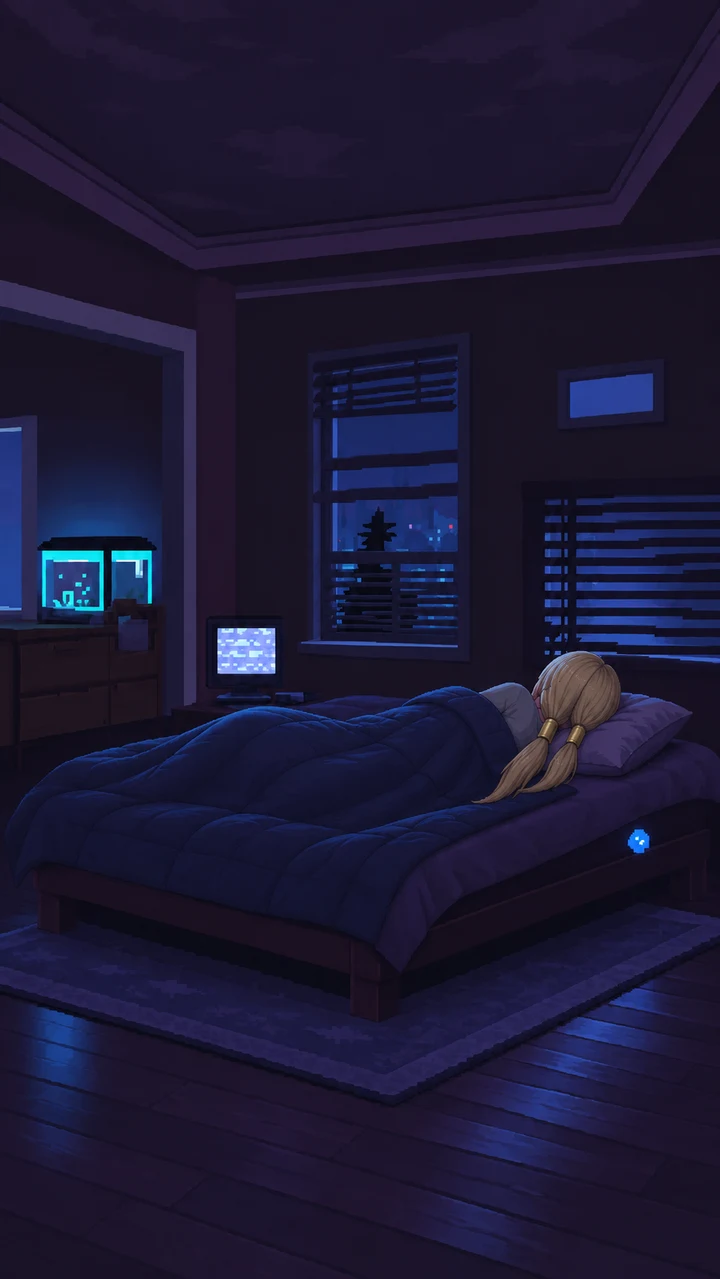
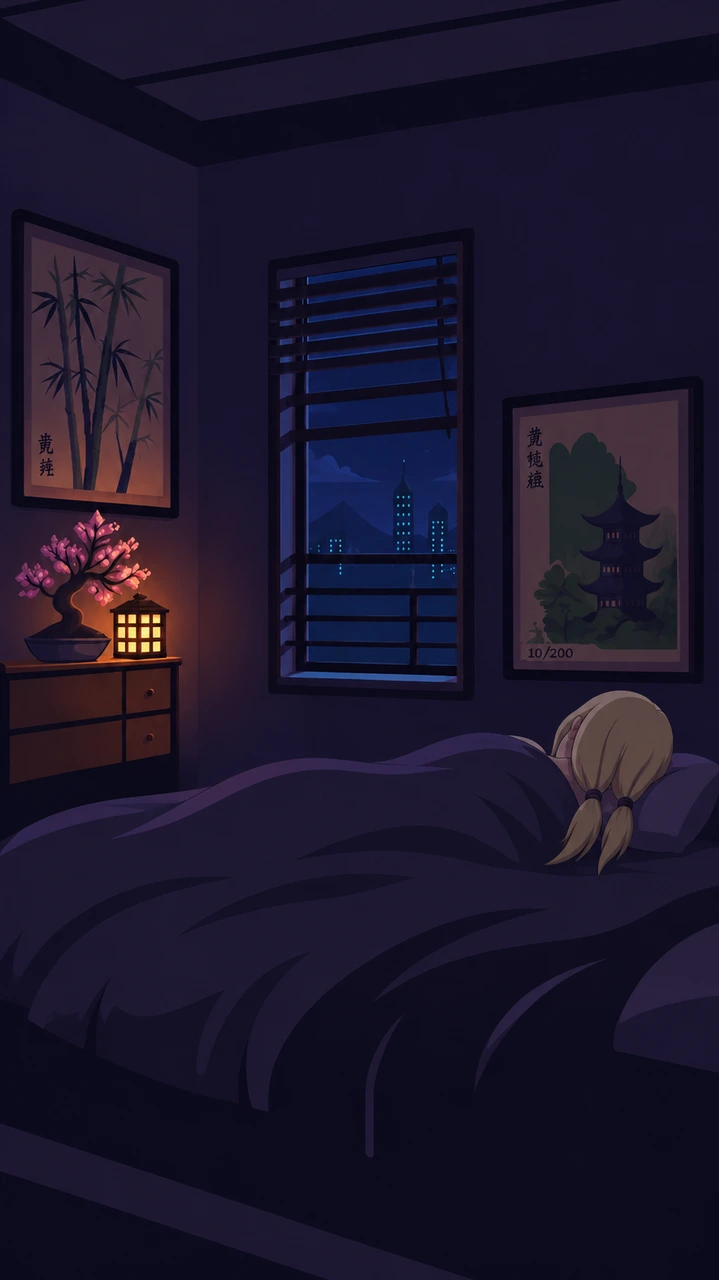
Place sleeping Tsunade in the lantern-lit bedroom

diff --git a/src/companion.css b/src/companion.css
@@ -50,7 +50,7 @@ dialog.roomDialog[open]{position:fixed;inset:0;margin:0;width:100%;height:100dvh
 .roomCanvas i{position:absolute;display:block;pointer-events:none}
 .crtGlow{left:30%;top:49.2%;width:8%;height:3.6%;background:repeating-linear-gradient(0deg,#a1d9ff60 0 2px,transparent 2px 5px);box-shadow:0 0 12px #6d99ff80}
 .tankGlow{left:6%;top:44%;height:3.8%;width:14%;background:radial-gradient(ellipse at 25% 80%,#70fcff75,transparent 65%);background-size:150% 120%}
-.quiltBreath{inset:0;background:inherit;clip-path:ellipse(32% 5.3% at 39% 60%);transform-origin:50% 67%}
+.quiltBreath{inset:0;background:inherit;clip-path:ellipse(32% 5.3% at 44% 63%);transform-origin:50% 67%}
 @media(prefers-reduced-motion:no-preference){.crtGlow{animation:roomMonitor 2.8s steps(4) infinite}.tankGlow{animation:roomWater 4.2s ease-in-out infinite alternate}.quiltBreath{animation:roomBreath 4.6s ease-in-out infinite}
 @keyframes roomMonitor{0%,100%{opacity:.5;background-position:0 0}45%{opacity:.85;background-position:0 4px}70%{opacity:.4}}
 @keyframes roomWater{to{background-position:100% 40%;opacity:.45}}
@@ -65,3 +65,6 @@ dialog.roomDialog[open]{position:fixed;inset:0;margin:0;width:100%;height:100dvh
 .roomDialog .petFigure img{max-height:100%;max-width:100%;object-fit:contain;filter:drop-shadow(0 5px 4px #12101966)}
 .roomPanel{padding:8px 14px}.roomPanel .petNeeds{margin:0;gap:4px}.roomPanel .petNeeds button{padding:5px 8px;font-size:.83rem}.roomPanel .petNeeds progress{height:6px}
 .roomPanel .petAffection,.roomPanel details{display:inline-block;margin:4px 10px 0 0;font-size:.78rem}.roomPanel details[open]{display:block}
+
+.lanternGlow{left:15%;top:47.7%;width:8%;height:3.5%;border-radius:35%;background:#ffc56318;box-shadow:0 0 14px #ffae5640}
+@media(prefers-reduced-motion:no-preference){.lanternGlow{animation:lanternLight 3.6s ease-in-out infinite alternate}@keyframes lanternLight{to{opacity:.45}}}

diff --git a/src/Companion.tsx b/src/Companion.tsx
@@ -103,7 +103,7 @@ export function CompanionDialog({kind,state,close,wallpaper}:{kind:PetTile;state
   return <dialog className={'petDialog'+(room?' roomDialog':'')} data-phase={room?phase:undefined} ref={dialog} onClose={close} aria-label={kind}>
     {room && <div className="roomScenery" aria-hidden={!p.asleep} role={p.asleep?'img':undefined} aria-label={p.asleep?'Tsunade dort de dos sous la couverture.':undefined}>
       <div className="roomCanvas" style={{backgroundImage:'url('+base+'companions/room/'+phase+'.webp)'}}>
-        <i className="crtGlow"/><i className="tankGlow"/>{p.asleep && <i className="quiltBreath"/>}
+        {p.asleep ? <><i className="lanternGlow"/><i className="quiltBreath"/></> : <><i className="crtGlow"/><i className="tankGlow"/></>}
       </div></div>}
     <header><h2>{room && <small>Chambre · {phase==='day'?'Jour':phase==='dusk'?'Soir':'Nuit'}</small>}{counter ? kind : p ? p.nickname || p.model : 'Choisis ton personnage'}</h2>
       <button onClick={()=>dialog.current?.close()} aria-label="Fermer le personnage"><X/></button></header>
